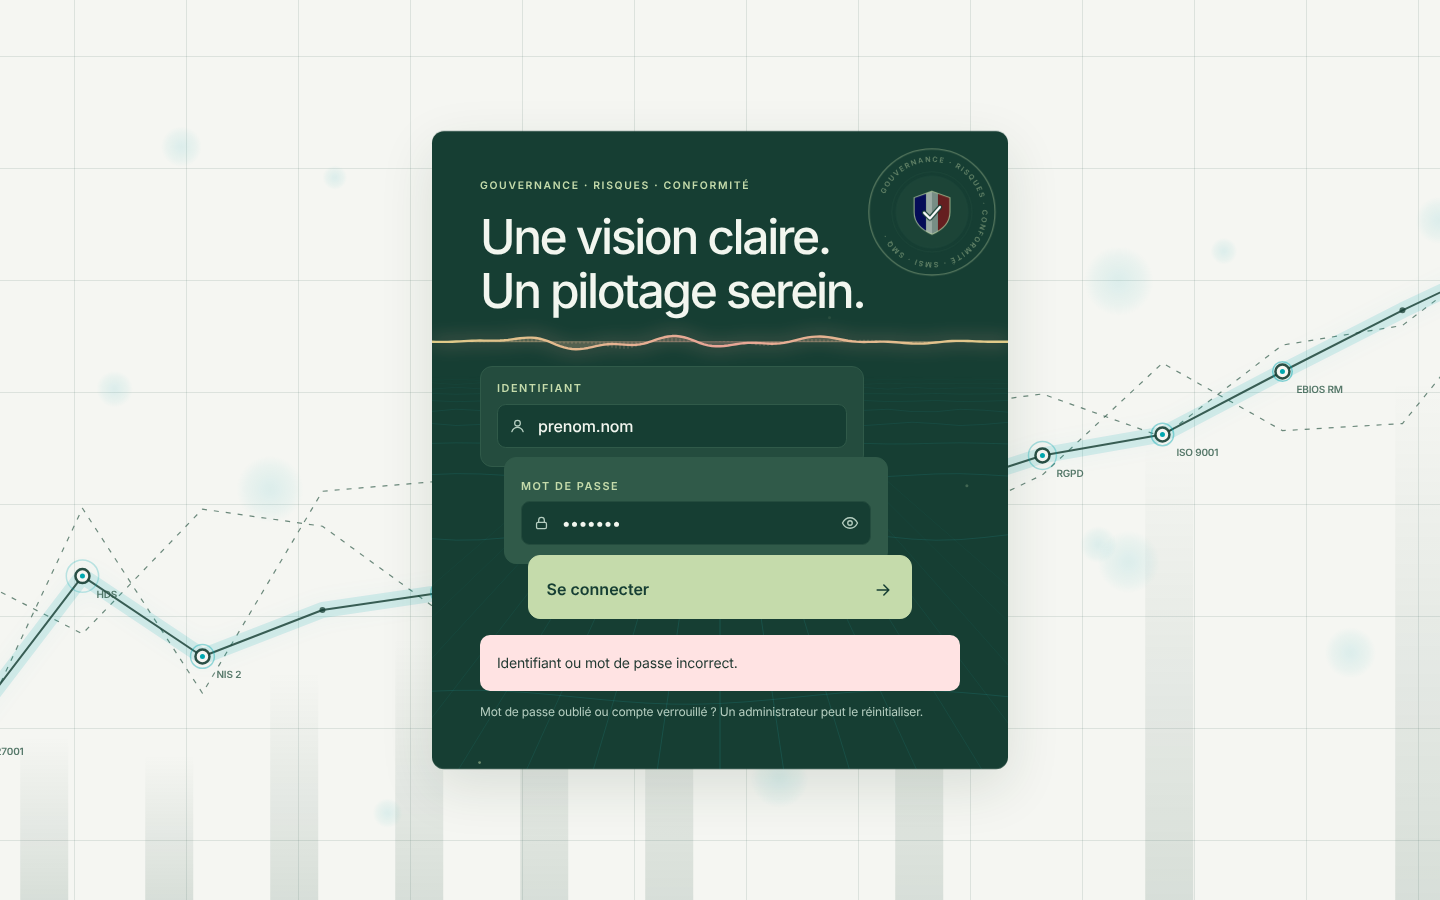
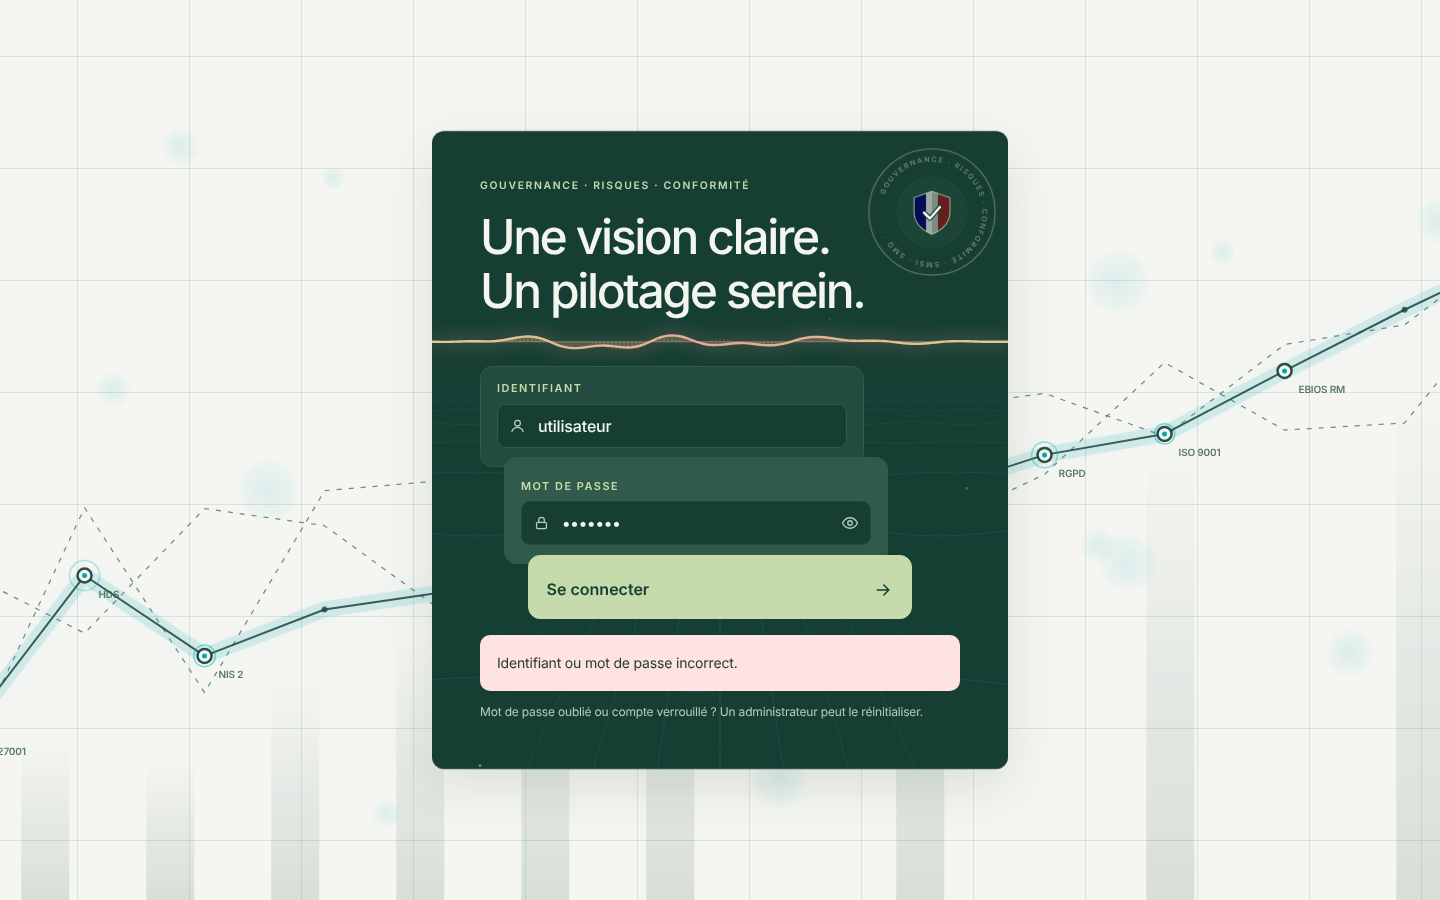
security(web): aucun exemple de format dans le champ identifiant
Le texte indicatif « prenom.nom » de l'écran de connexion révélait le
format des identifiants et aidait à les deviner. Il est remplacé par
« Identifiant ». Entrée « Écran de connexion refondu » du CHANGELOG
(6.0.0) complétée ; captures de connexion et d'erreur refaites (saisie
d'exemple neutre).

Session : Refonte écran de connexion (session_01EnWdzhN76qXxN4h4g2c977)
Claude-Session: https://claude.ai/code/session_01EnWdzhN76qXxN4h4g2c977

diff --git a/apps/web/src/pages/Login.tsx b/apps/web/src/pages/Login.tsx
@@ -215,7 +215,8 @@ function PasswordLogin({
               autoComplete="username"
               autoCapitalize="none"
               spellCheck={false}
-              placeholder="prenom.nom"
+              // Aucun exemple de format : il aiderait à deviner les identifiants.
+              placeholder="Identifiant"
               required
               autoFocus
               value={u}

diff --git a/CHANGELOG.md b/CHANGELOG.md
@@ -81,7 +81,7 @@ Version majeure : **installation neuve uniquement**, sans aucune ligne de comman
 - **Facteurs d'un compte** (Droits, Utilisateurs, « Facteurs ») : révoquer une clé, réactiver une clé suspendue, réinitialiser
   les clés (ré-enrôlement imposé), chaque fois avec un motif consigné au journal. (session Claude « FIDO2/WebAuthn support for suivi-audits »)
 ### Modifié
-- **Écran de connexion refondu** (maquette validée) : un panneau unique centré, au fond de la navigation vert profond (36rem au plus, téléphone compris), remplace la colonne éditoriale et la carte séparée. Bandeau « Gouvernance · Risques · Conformité », accroche « Une vision claire. / Un pilotage serein. », titre « Connexion » masqué visuellement ; le nom de l'application, la phrase d'accroche et la légende sont retirés. Le formulaire prend la place des trois cartes empilées : identifiant, mot de passe (bouton afficher/masquer, avertissement « Majuscules verrouillées ») et bouton « Se connecter ». Les étapes code TOTP, enrôlement et changement de mot de passe s'affichent dans le même panneau. Sceau décoratif (texte circulaire qui tourne en 40 s, écu tricolore assombri). Onde décorative en fond du panneau (nouveau composant `OndeMenu` : grille en perspective qui ondule et avance, onde sonore lumineuse, particules qui montent), absente si moins de mouvement est demandé. Sur l'écran de connexion (option `connexion` d'`OndeMenu`), la ligne centrale est placée à mi-chemin entre le titre et la première carte (3rem d'écart), d'après la mise en page ; l'onde y est signée (au-dessus et en dessous de la ligne), en dégradé conformité / risques, avec une amplitude bornée pour ne jamais toucher le texte. Fond animé décoratif derrière le panneau (grille, barres larges de 48 px au pas de 125 px, halos, courbe montante et libellés de référentiels), image fixe si moins de mouvement est demandé. Les deux animations tournent à 30 images/s au plus et sont absentes à l'impression et sous automate de test. Nouveaux jetons `SCEAU` (`--suivi-sceau-bleu`, `--suivi-sceau-blanc`, `--suivi-sceau-rouge`) et fonction `transparence` dans `packages/ui`. Aucune nouvelle dépendance.
+- **Écran de connexion refondu** (maquette validée) : un panneau unique centré, au fond de la navigation vert profond (36rem au plus, téléphone compris), remplace la colonne éditoriale et la carte séparée. Bandeau « Gouvernance · Risques · Conformité », accroche « Une vision claire. / Un pilotage serein. », titre « Connexion » masqué visuellement ; le nom de l'application, la phrase d'accroche et la légende sont retirés. Le formulaire prend la place des trois cartes empilées : identifiant, mot de passe (bouton afficher/masquer, avertissement « Majuscules verrouillées ») et bouton « Se connecter ». Le champ identifiant n'affiche aucun exemple de format, qui aiderait à deviner les identifiants (texte indicatif « Identifiant »). Les étapes code TOTP, enrôlement et changement de mot de passe s'affichent dans le même panneau. Sceau décoratif (texte circulaire qui tourne en 40 s, écu tricolore assombri). Onde décorative en fond du panneau (nouveau composant `OndeMenu` : grille en perspective qui ondule et avance, onde sonore lumineuse, particules qui montent), absente si moins de mouvement est demandé. Sur l'écran de connexion (option `connexion` d'`OndeMenu`), la ligne centrale est placée à mi-chemin entre le titre et la première carte (3rem d'écart), d'après la mise en page ; l'onde y est signée (au-dessus et en dessous de la ligne), en dégradé conformité / risques, avec une amplitude bornée pour ne jamais toucher le texte. Fond animé décoratif derrière le panneau (grille, barres larges de 48 px au pas de 125 px, halos, courbe montante et libellés de référentiels), image fixe si moins de mouvement est demandé. Les deux animations tournent à 30 images/s au plus et sont absentes à l'impression et sous automate de test. Nouveaux jetons `SCEAU` (`--suivi-sceau-bleu`, `--suivi-sceau-blanc`, `--suivi-sceau-rouge`) et fonction `transparence` dans `packages/ui`. Aucune nouvelle dépendance.
 - **Clés de sauvegarde sans commande** ([ADR 0077](docs/adr/0077-installation-sans-ligne-de-commande.md), étape 1) : la clé du serveur est créée par l'exécutant des sauvegardes dans `DATA_DIR/cles-sauvegarde` ; la clé de secours est générée par le navigateur dans l'assistant d'installation (téléchargée et rangée au coffre-fort, seule la clé publique est envoyée), puis remplaçable dans Administration, Sauvegardes (code de double authentification). Sans clé de secours, les sauvegardes restent bloquées et un bandeau le signale. Les montages `/root/.suivi-backup-key` et `/root/.suivi-backup-recipients` disparaissent du compose.
 - **Références à une organisation réelle** : le nom d'organisation par défaut est neutre (« Mon organisation », `ORG_NAME`) et l'assistant du premier lancement le demande ; les questionnaires (GAP, guide d'audit, incidents NIS 2) parlent de « l'organisation » et ne citent plus de prestataire nommé. L'activité du CRRC se regroupe par département (deux premiers chiffres du FINESS) au lieu d'une carte des départements normands.
 - Les boutons de suppression de ces écrans n'apparaissent que pour qui a le droit `supprimer` du module.
